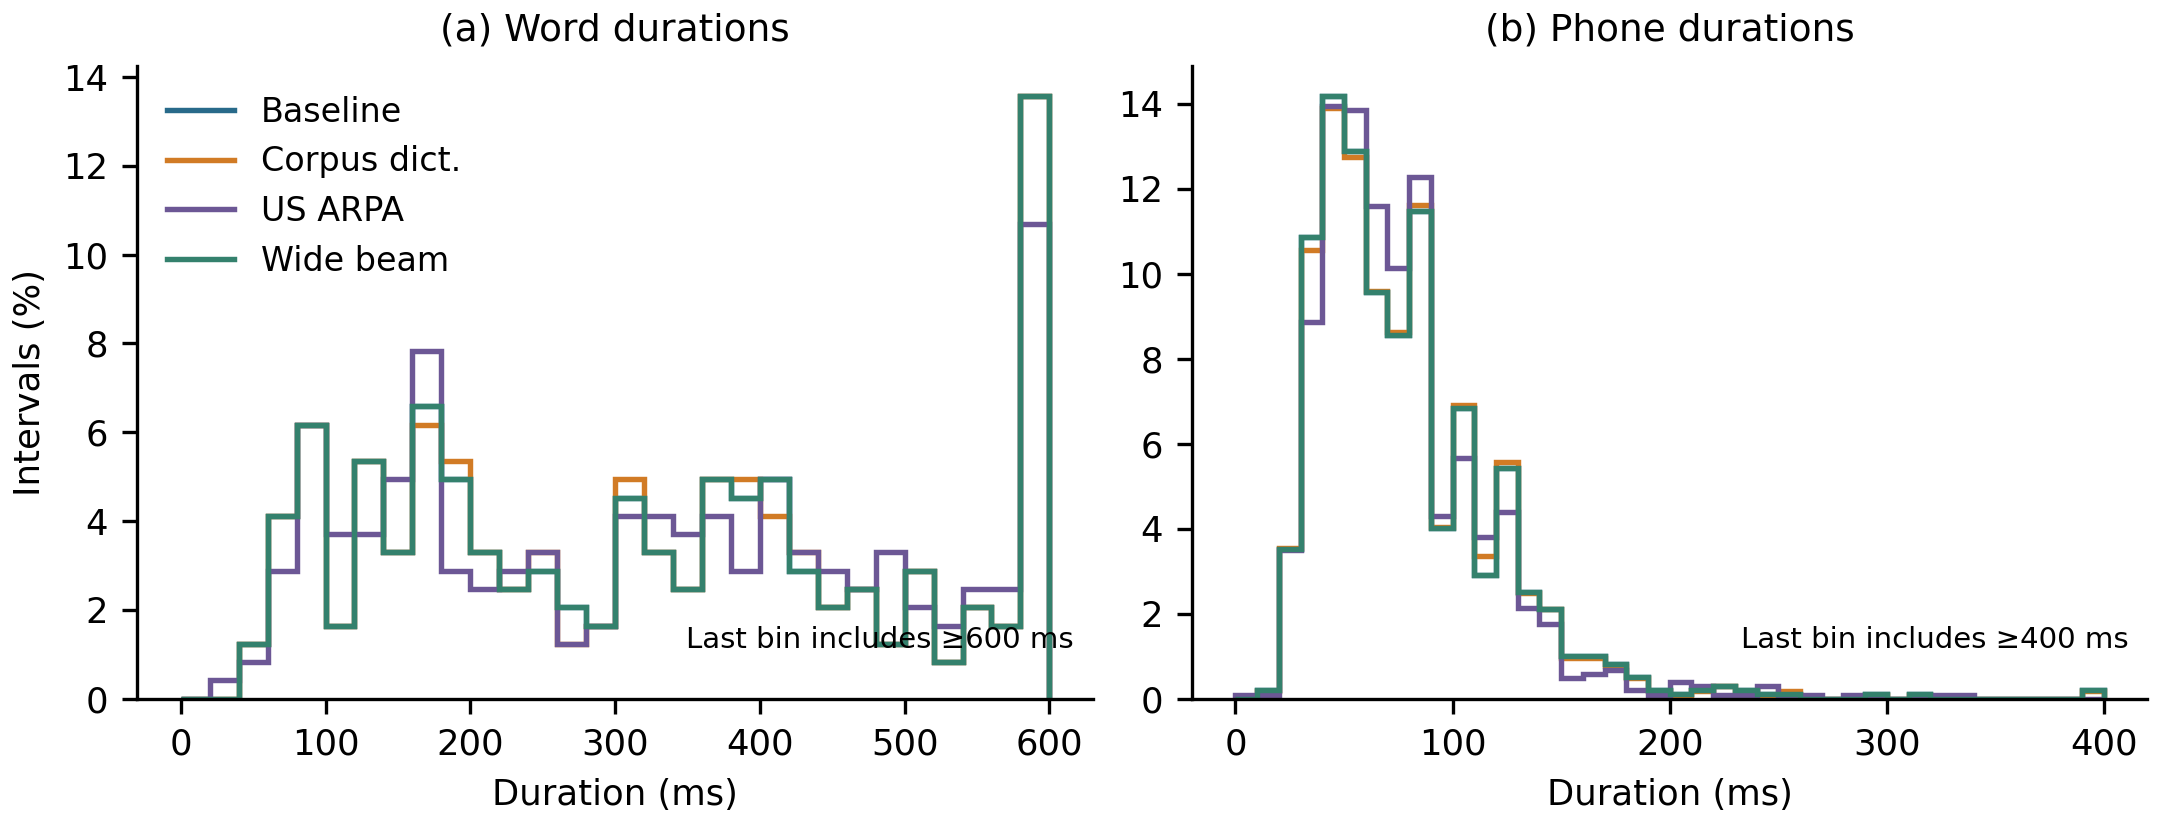
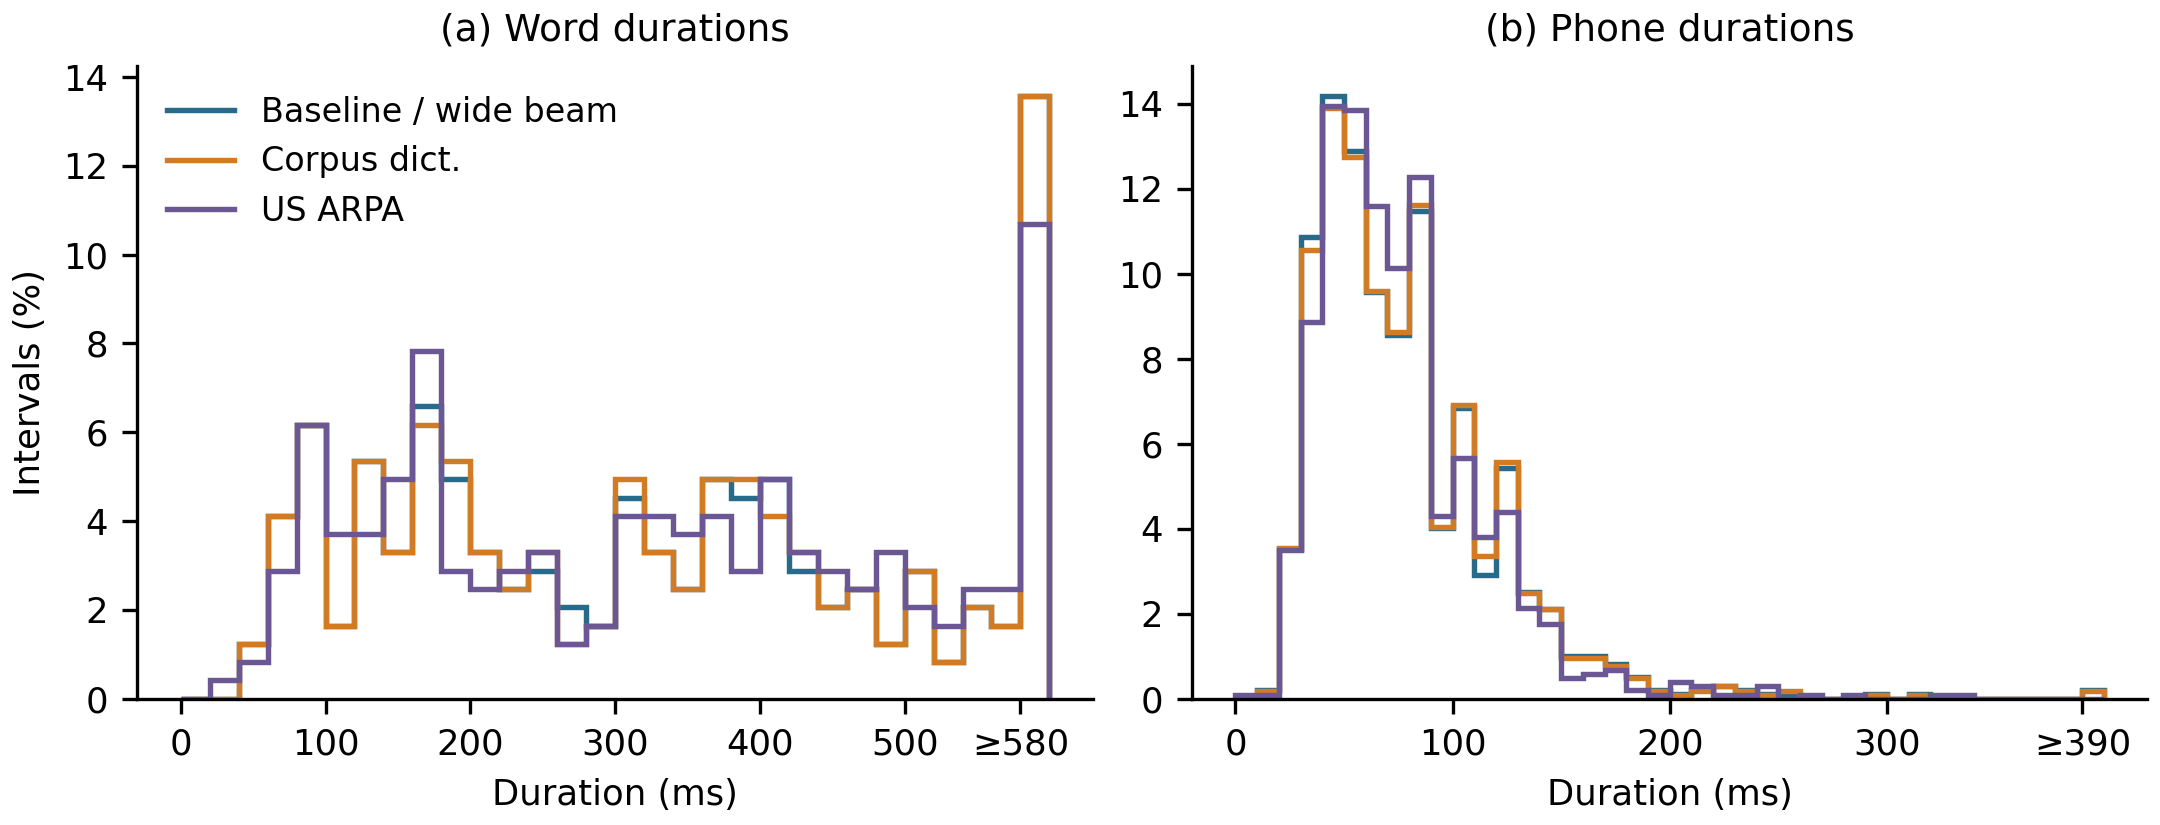
Finalize alignment verification and documentation

diff --git a/forced_alignment/scripts/visualize.py b/forced_alignment/scripts/visualize.py
@@ -28,7 +28,7 @@ def pipeline(directory):
         "features": (2.29, 2.16, "MFCCs\n25 ms / 10 ms hop"),
         "model": (4.04, 2.16, "Acoustic model\nGMM–HMM"),
         "text": (0.68, 1.17, "Transcript\nKnown words"),
-        "dictionary": (2.29, 1.17, "Lexicon + G2P\nWord → phones"),
+        "dictionary": (2.29, 1.17, "Lexicon\nG2P for OOV study"),
         "graph": (4.04, 1.17, "Decoding graph\nAllowed phone paths"),
         "decode": (5.95, 1.65, "Constrained search\nBest timed path"),
         "output": (5.95, 0.50, "TextGrid\nWords + phones"),
@@ -137,17 +137,23 @@ def plot_corpus(results, directory, data):
 
 def plot_distributions(directory, data):
     fig, axes = plt.subplots(1, 2, figsize=(7.2, 2.75), layout="constrained")
-    for i, (config, grids) in enumerate(data["grids"].items()):
+    grids_by_config = data["grids"]
+    same_beams = grids_by_config["baseline"] == grids_by_config["decoding_sensitivity"]
+    for i, (config, grids) in enumerate(grids_by_config.items()):
+        if same_beams and config == "decoding_sensitivity":
+            continue
+        curve_label = "Baseline / wide beam" if same_beams and config == "baseline" else LABELS[i]
         for axis, tier, edges in [(axes[0], 0, np.arange(0, 601, 20)), (axes[1], 1, np.arange(0, 401, 10))]:
             samples = [1000 * (end - start) for grid in grids.values() for start, end, label in grid[tier]
                        if label not in {"<unk>", "spn", "<oov>"}]
             if samples:
                 counts, _ = np.histogram(np.minimum(samples, edges[-1]), edges)
-                axis.stairs(counts / len(samples) * 100, edges, label=LABELS[i], color=COLORS[i], lw=1.3)
-    axes[0].set(title="(a) Word durations", ylabel="Intervals (%)", xlabel="Duration (ms)")
-    axes[1].set(title="(b) Phone durations", xlabel="Duration (ms)")
-    axes[0].text(.98, .08, "Last bin includes ≥600 ms", transform=axes[0].transAxes, ha="right", fontsize=7)
-    axes[1].text(.98, .08, "Last bin includes ≥400 ms", transform=axes[1].transAxes, ha="right", fontsize=7)
+                axis.stairs(counts / len(samples) * 100, edges, label=curve_label, color=COLORS[i], lw=1.3)
+    axes[0].set(title="(a) Word durations", ylabel="Intervals (%)", xlabel="Duration (ms)",
+                xticks=[0, 100, 200, 300, 400, 500, 580],
+                xticklabels=["0", "100", "200", "300", "400", "500", "≥580"])
+    axes[1].set(title="(b) Phone durations", xlabel="Duration (ms)",
+                xticks=[0, 100, 200, 300, 390], xticklabels=["0", "100", "200", "300", "≥390"])
     axes[0].legend(frameon=False, fontsize=8)
     save(fig, directory, "durations")
 

diff --git a/ARCHITECTURE.md b/ARCHITECTURE.md
@@ -1,0 +1,29 @@
+# How forced alignment works
+
+Forced alignment starts with a recording and a known transcript. It estimates when each word and phone starts and ends. Speech recognition also has to decide which words were spoken. Here the transcript fixes the word order, while the aligner chooses among possible pronunciations, silence placements and durations.
+
+## Audio and pronunciations
+
+[prepare_data.py](forced_alignment/scripts/prepare_data.py) pairs audio and transcripts by file stem, normalizes the text and writes one WAV and one `.lab` file per utterance. The three NIST SPHERE recordings are converted to PCM WAV at the original 16 kHz. The project checks that the samples are unchanged. The corpus has no verified speaker IDs, so each recording forms its own MFA speaker group.
+
+MFA computes mel-frequency cepstral coefficients (MFCCs) on overlapping 25 ms windows with a 10 ms hop. It measures short-time spectral energy with mel-spaced filters, takes logarithms and applies a cosine transform to summarize the spectral envelope. Both model packages specify 13 coefficients, cepstral mean and variance normalization, and delta features. The hop sets the granularity of the frame sequence. The spectrogram in the plots is a separate Praat visualization of the waveform.
+
+A pronunciation dictionary maps a word such as `bed` to one or more phone sequences, such as `b ɛ d` in the MFA phone set or `B EH1 D` in ARPA. [dictionary.py](forced_alignment/scripts/dictionary.py) measures vocabulary coverage, preserves the official entries for covered words and calls `mfa g2p` for out-of-vocabulary (OOV) spellings in the corpus-dictionary run. The pretrained English US MFA G2P 3.0.0 model is a Phonetisaurus weighted transducer that predicts phone sequences from spelling. These candidates give the decoder paths it can score against the audio. Names still need pronunciation review. Without a lexical pronunciation, MFA can keep the word label and use `spn` as its phone.
+
+## Acoustic models and decoding
+
+The baseline uses the English MFA acoustic model 3.1.0 and the English US MFA dictionary 3.1.0 with an IPA-based inventory. The model was trained on several English corpora, including Common Voice and LibriSpeech. The alternative uses the English US ARPA acoustic model and dictionary 3.0.0, with a stress-marked ARPAbet inventory and an acoustic model trained on LibriSpeech. The paired comparison changes the acoustic model and dictionary together. The corpus-dictionary and wide-beam runs reuse the baseline acoustic model. [Model specifications](https://mfa-models.readthedocs.io/en/latest/acoustic/index.html)
+
+Both acoustic models use Gaussian mixture model–hidden Markov models (GMM–HMMs). A phone in context is represented by a sequence of hidden states. A state can repeat across frames, which allows a sound to last longer, or transition to another state. A Gaussian mixture gives the likelihood of an observed feature vector for a state. Transition and acoustic scores together let MFA compare different ways of assigning frames to the pronunciation.
+
+MFA and Kaldi compile an utterance-specific weighted finite-state graph. The graph connects the transcript's ordered words to dictionary pronunciations, optional silence and the corresponding HMM transitions. A Viterbi-style dynamic program retains the best path to each reachable state at each frame. Conceptually, it adds the predecessor's score, the transition score and the current frame's acoustic score. Backtracking from a final state recovers the timed path. Beam search prunes partial paths that fall too far behind the best current score. MFA can try a wider retry beam when the first search fails to align an utterance. The saved runs used beam/retry-beam settings of 10/40 and 100/400. [MFA alignment documentation](https://montreal-forced-aligner.readthedocs.io/en/v3.3.9/user_guide/workflows/alignment.html)
+
+## From frames to TextGrids
+
+[align.py](forced_alignment/scripts/align.py) supplies the corpus, compatible models and beam settings to `mfa validate` and `mfa align`. MFA performs feature extraction, graph compilation, decoding and export. It groups consecutive states belonging to each phone occurrence, converts the frame boundaries to seconds and uses the selected pronunciation path to recover word intervals. The resulting Praat TextGrid has separate word and phone tiers. A blank interval can represent an unlabelled gap, such as the quiet tail after the ARPA alignment of “bed”.
+
+[analyze.py](forced_alignment/scripts/analyze.py) reads the exported intervals, checks them against the waveform duration, and matches word labels in order to compare boundary times. It uses words for the cross-model comparison because the phone inventories differ. [visualize.py](forced_alignment/scripts/visualize.py) plots the saved intervals alongside the waveform and Praat spectrogram. The project code prepares, orchestrates and audits the run. The acoustic models are pretrained, and MFA performs the alignment.
+
+## What the results establish
+
+The corpus dictionary reduces OOV coverage gaps from six types and seven tokens to zero, and the seven baseline `spn` intervals disappear. All 243 word labels match the transcript even in the baseline. The wide-beam TextGrids are byte-identical to baseline. US ARPA keeps both boundaries unchanged for 64 of 243 words. For “bed”, the baseline ends at 4.50 s and ARPA ends at 2.06 s. The remaining tail is about 22 dB quieter than the preceding word region. Coverage, model agreement and acoustic evidence describe the outputs. Boundary accuracy requires independent reference annotations.

diff --git a/README.md b/README.md
@@ -12,16 +12,26 @@ conda activate speech-align
 python forced_alignment/run.py
 ```
 
-The script downloads and checksums the pinned acoustic, dictionary, and G2P releases. Use `--wav PATH --transcripts PATH` to point to another extraction. Use `--stage dictionary` to stop after building the lexicon or `--stage plot` to regenerate analysis and figures from a completed run.
+Use `--wav PATH --transcripts PATH` to point to another extraction. The runner downloads the five pinned [model and dictionary assets](forced_alignment/scripts/dictionary.py) and checks their SHA-256 hashes. To run separately from the saved figures and TextGrids, append `--results forced_alignment/work/reproduction`. Run the tests with `python -m pytest -q` from the repo root.
 
 ## Results
 
-All six files aligned in each of the four runs. The English MFA 3.1.0 baseline missed six spellings across seven tokens (2.9%). The corpus dictionary kept the official pronunciations and added G2P candidates for those six spellings, removing all seven unknown-phone intervals. The saved US ARPA 3.0.0 run kept 64 of 243 word intervals unchanged from baseline. Widening the baseline beams from 10/40 to 100/400 left all 243 unchanged.
+All four runs aligned the same 243 word tokens. The baseline dictionary missed six spellings across seven tokens (2.9%). G2P filled those gaps in the corpus dictionary, and all seven `spn` intervals disappeared. This measures pronunciation coverage. Timing accuracy would require independent reference annotations.
 
-The biggest shift is at “bed”. English MFA carries the final /d/ to 4.50 s, while US ARPA ends it at 2.06 s, near the start of the quiet tail. The two GMM–HMM models use different phone sets and training data. There are no hand-labelled boundaries or verified speaker IDs, and 97 seconds was too little for a separate adaptation study. Review the G2P candidates for the names before reusing the dictionary.
+US ARPA kept both boundaries unchanged for 64 of 243 words. Widening the baseline beams from 10/40 to 100/400 produced six byte-identical TextGrids. The largest shift is the end of “bed”. Baseline labels the final /d/ through 4.50 s, while US ARPA ends it at 2.06 s. Praat's waveform and spectrogram show a markedly quieter tail after 2.06 s. See the [boundary comparison](forced_alignment/Results/plots/boundary_examples.pdf), [saved metrics](forced_alignment/Results/summary.json) and [architecture notes](ARCHITECTURE.md).
 
-![Word and phone alignment for the “bed” clip](forced_alignment/Results/plots/alignments/ISLE_SESS0131_BLOCKD02_03_sprt1.png)
+![Baseline word and phone alignment for the “bed” clip](forced_alignment/Results/plots/alignments/ISLE_SESS0131_BLOCKD02_03_sprt1.png)
 
-In Praat, open the prepared WAV from `forced_alignment/work/run/corpus/` and its matching TextGrid from `forced_alignment/Results/TextGrids/`. Select both objects and choose **View & Edit**. The [results summary](forced_alignment/Results/summary.json) includes timings and boundary statistics.
+## Inspect in Praat
+
+If the prepared WAV is missing, run `python forced_alignment/run.py --stage prepare --results forced_alignment/work/praat-prepare` after extracting the source data. From the repo root, open these files in Praat using **Open → Read from file**.
+
+- Audio file `forced_alignment/work/run/corpus/ISLE_SESS0131_BLOCKD02_03_sprt1/ISLE_SESS0131_BLOCKD02_03_sprt1.wav`
+- Baseline grid `forced_alignment/Results/TextGrids/baseline/ISLE_SESS0131_BLOCKD02_03_sprt1/ISLE_SESS0131_BLOCKD02_03_sprt1.TextGrid`
+- US ARPA grid `forced_alignment/Results/TextGrids/alternate_model/ISLE_SESS0131_BLOCKD02_03_sprt1/ISLE_SESS0131_BLOCKD02_03_sprt1.TextGrid`
+
+Select the Sound and one TextGrid in the Objects window, choose **View & Edit**, and enable **Spectrum → Show spectrogram**. Compare the word and phone tiers between 1.47 and 4.50 s, then repeat with the other grid. The saved inspection used Praat through Parselmouth.
+
+TextGrids, pronunciation tables and labelled plots contain transcript-derived material. Confirm the source terms before redistributing them outside this private repository.
 
 [MFA documentation](https://montreal-forced-aligner.readthedocs.io/) · [Official model releases](https://github.com/MontrealCorpusTools/mfa-models/releases) · [McAuliffe et al., 2017](https://doi.org/10.21437/Interspeech.2017-1386)
